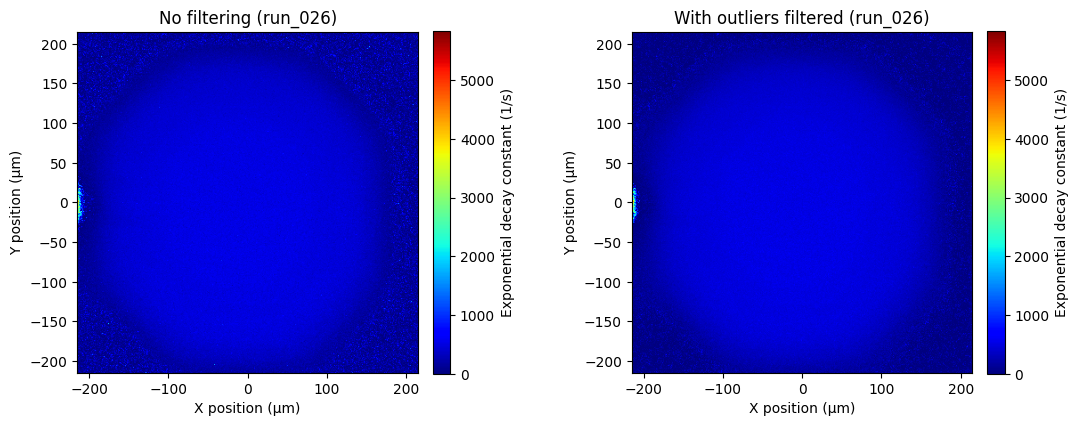
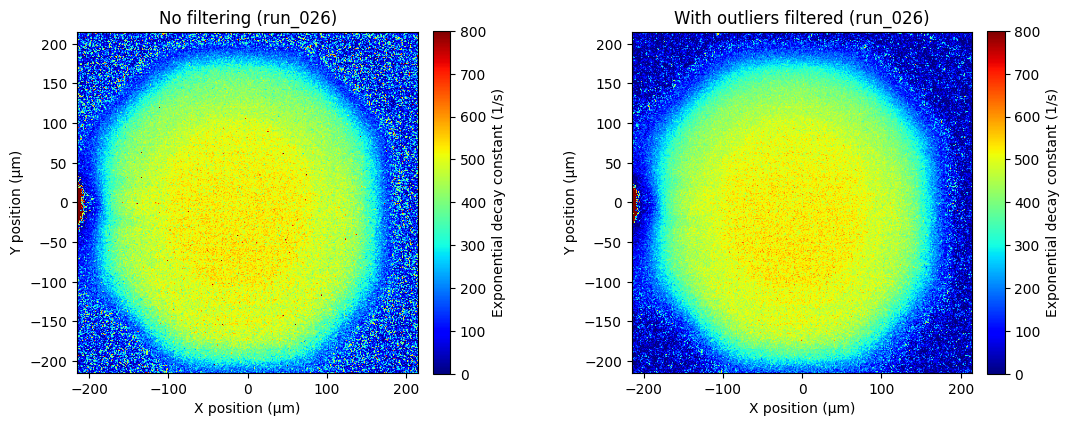
Changes to confusion matrix generation

diff --git a/new/plot_results.py b/new/plot_results.py
@@ -167,48 +167,40 @@ def main():
             plot_3_λ(df, df_inliers, run_number, 0)
             plot_4(df, df_inliers, run_number, 0)
             plot_4_λ(df, df_inliers, run_number, 0)
-
+            
             # Set-up target vectors
-            y_true = df["actual_type"][df["actual_type"].notna()]
-            y_pred = df["predicted_type"][df["predicted_type"].notna()]
-            target_names = ["inlier", "outlier"]
+            y_true = df["actual_outlier_type"][df["actual_outlier_type"].notna()]
+            y_pred = df['predicted_type'][df['predicted_type'].notna()]
+            labels_true = ["no_anomaly", "amplitude_anomaly", "decay_anomaly"]
+            labels_pred = ["inlier", "outlier"]
 
             # Display elementary metrics and classification report
             outlier_percentage = (
                 len(df_outliers) / (len(df_inliers) + len(df_outliers)) * 100
             )
 
+            print(" ")
             print(f"----- RUN {run_number} -----")
             print(f"Number of outliers: {len(df_outliers)}")
             print(f"Number of inliers: {len(df_inliers)}")
             print(f"Outlier percentage: {outlier_percentage:.2f}%")
             print(" ")
-            # Print confusion matrix with annotations
-            cm = confusion_matrix(y_true, y_pred, labels=target_names)
-            print("Confusion Matrix:")
-            print("\t     Predicted")
-            print("\t     " + " ".join(target_names))
-            for i, class_row in enumerate(cm):
-                print(f"True {target_names[i]}:", end=" ")
-                for count in class_row:
-                    print(f"{count}", end=" ")
-                print()
-            print(" ")
-            print(classification_report(y_true, y_pred, target_names=target_names))
-            print(" ")
-            print("-------------------")
+            
+            # Manually create a 4x2 confusion matrix
+            conf_matrix = np.zeros((len(labels_true), len(labels_pred)), dtype=int)
+
+            # Fill in the confusion matrix based on true labels and predictions
+            for true_label, pred_label in zip(y_true, y_pred):
+                true_label_i = labels_true.index(true_label)
+                pred_label_i = labels_pred.index(pred_label)
+                conf_matrix[true_label_i, pred_label_i] += 1
 
             fig, ax = plt.subplots(figsize=FIGSIZE_SINGLE)
-            cm_display = ConfusionMatrixDisplay(cm, display_labels=target_names)
-            cm_display.plot(ax=ax, values_format='', colorbar=False)
+            sns.heatmap(conf_matrix, annot=True, fmt="d", cmap="Blues", cbar=False, xticklabels=labels_pred, yticklabels=labels_true, ax=ax, square=True)
+            plt.yticks(rotation=45)
+            plt.xlabel("Predicted Label")
+            plt.ylabel("True Label")
             plt.savefig(f"plots/{run_number}/confusion_matrix.png", bbox_inches="tight")
-            plt.close()
-            
-            fig, ax = plt.subplots(figsize=FIGSIZE_SINGLE)
-            cm = confusion_matrix(y_true, y_pred, labels=target_names, normalize='true')
-            cm_display = ConfusionMatrixDisplay(cm, display_labels=target_names)
-            cm_display.plot(ax=ax, values_format='.2f', colorbar=False)
-            plt.savefig(f"plots/{run_number}/confusion_matrix_normalised.png", bbox_inches="tight")
             plt.close()
 
         logging.info(f"Successfully processed run {run_number}")
@@ -390,11 +382,12 @@ def plot_λ(df: pd.DataFrame, df_filtered: pd.DataFrame, run_number: int):
     axs[1].set_ylabel("Y position (µm)")
 
     # Use color scale of filtered heatmap for unfiltered to prevent extreme color changes
-    # TODO manual adjustment
-    if run_number == 26:
-        h1.set_clim(h1.get_clim()[0], 750)
-
     h2.set_clim(h1.get_clim())
+
+    # TODO manual adjustment
+    if run_number == "026":
+        h2.set_clim(h1.get_clim()[0], 800)
+        h1.set_clim(h1.get_clim()[0], 800)
 
     plt.savefig(
         f"plots/{run_number}/heatmap__exponential_decay_constant.png",
